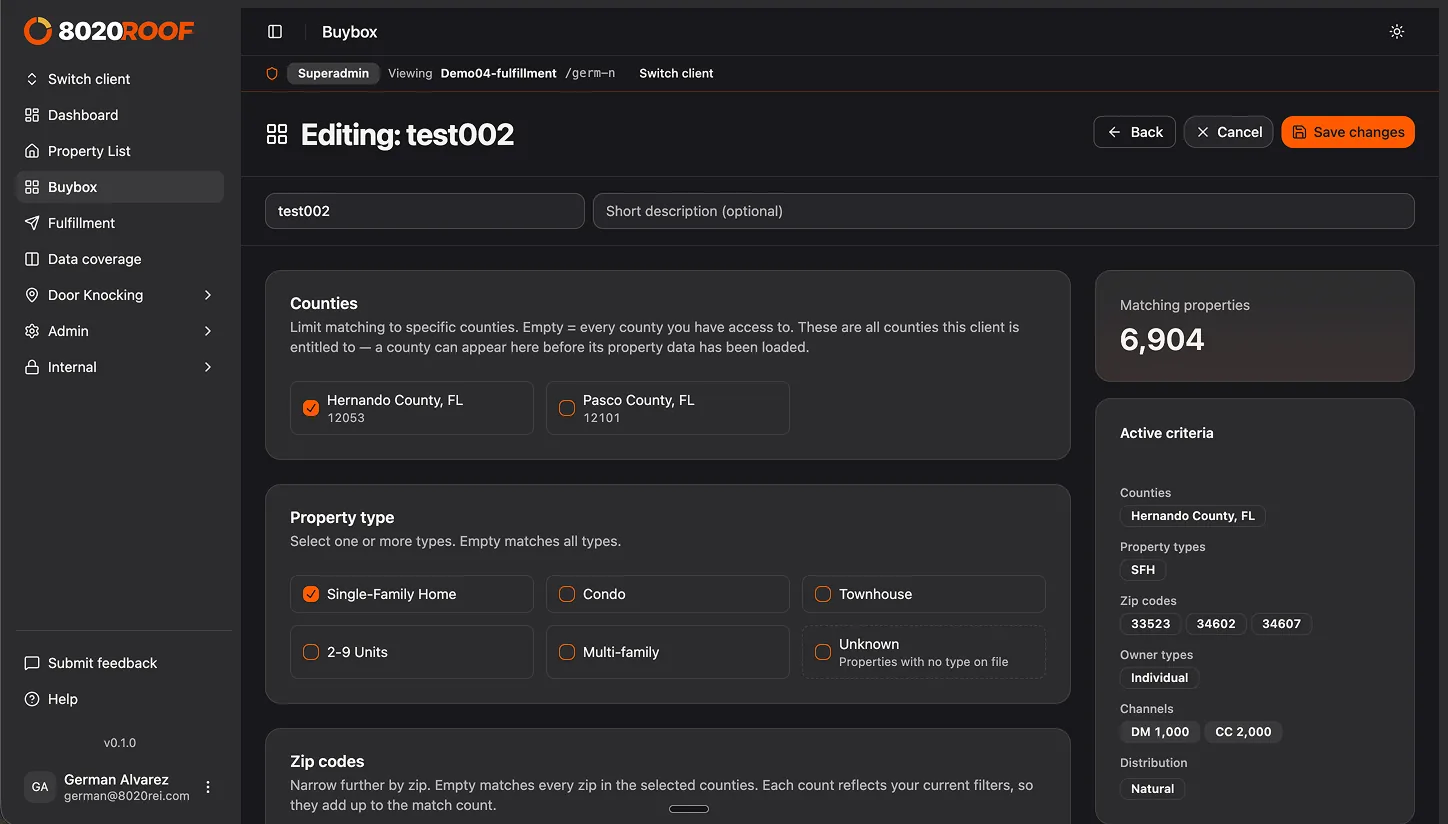
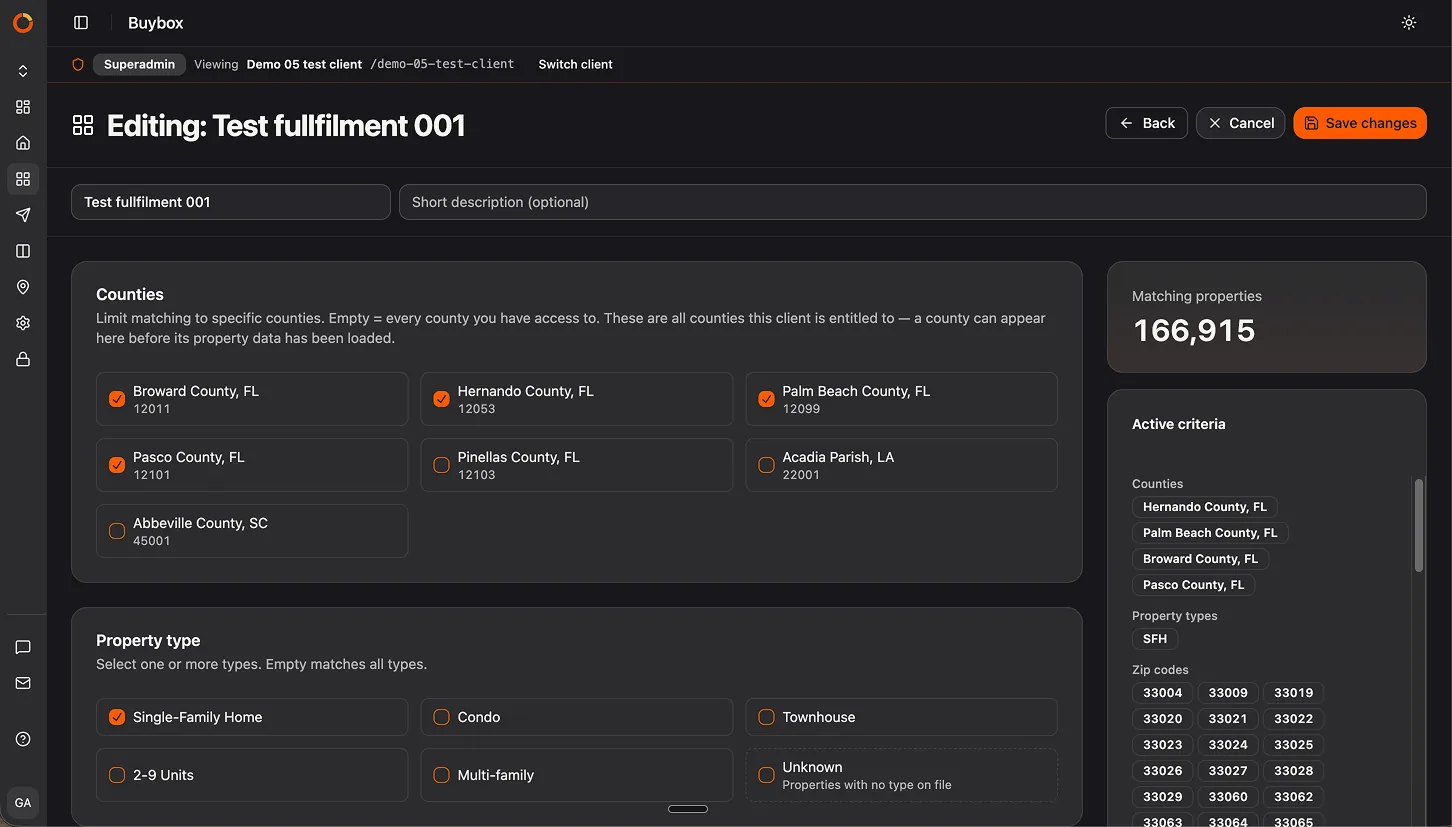
Refresh 8020 Roof platform imagery
Replace buybox, buybox-edit, dashboard, property-list, and fulfillment
screenshots with updated platform captures. Swap the data-coverage
showcase image for a new property-view screen. All new images converted
to WebP for lighter production payloads.

diff --git a/constants.ts b/constants.ts
@@ -41,7 +41,7 @@ import roofPropertyList from './assets/projects/8020roof/property-list.webp';
 import roofBuybox from './assets/projects/8020roof/buybox.webp';
 import roofBuyboxEdit from './assets/projects/8020roof/buybox-edit.webp';
 import roofFulfillment from './assets/projects/8020roof/fulfillment.webp';
-import roofDataCoverage from './assets/projects/8020roof/data-coverage.webp';
+import roofPropertyView from './assets/projects/8020roof/property-view.webp';
 import roofClientManagement from './assets/projects/8020roof/client-management.webp';
 
 export const PROJECTS: Project[] = [
@@ -218,7 +218,7 @@ export const PROJECTS: Project[] = [
       { src: roofBuybox, alt: "8020 Roof — Buy Box" },
       { src: roofBuyboxEdit, alt: "8020 Roof — Buy Box editor" },
       { src: roofFulfillment, alt: "8020 Roof — fulfillment" },
-      { src: roofDataCoverage, alt: "8020 Roof — data coverage" },
+      { src: roofPropertyView, alt: "8020 Roof — property view" },
       { src: roofClientManagement, alt: "8020 Roof — client management" }
     ]
   },

diff --git a/components/BusinessCaseDeck.tsx b/components/BusinessCaseDeck.tsx
@@ -33,7 +33,6 @@ import imgPropertyList from '../assets/projects/8020roof/property-list.webp';
 import imgBuybox from '../assets/projects/8020roof/buybox.webp';
 import imgBuyboxEdit from '../assets/projects/8020roof/buybox-edit.webp';
 import imgFulfillment from '../assets/projects/8020roof/fulfillment.webp';
-import imgDataCoverage from '../assets/projects/8020roof/data-coverage.webp';
 import imgClientManagement from '../assets/projects/8020roof/client-management.webp';
 import imgAsana from '../assets/projects/8020roof/asana-board.webp';
 import imgResearchCover from '../assets/projects/8020roof/research-cover.webp';
